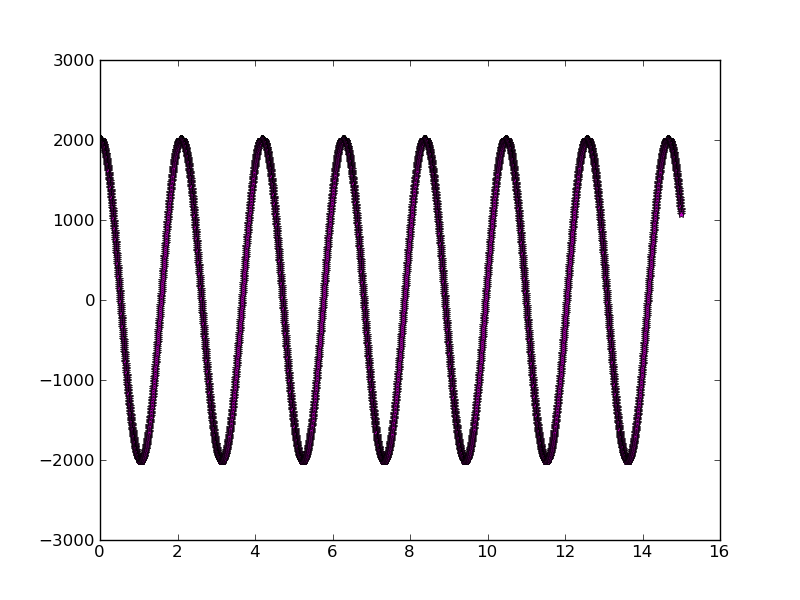
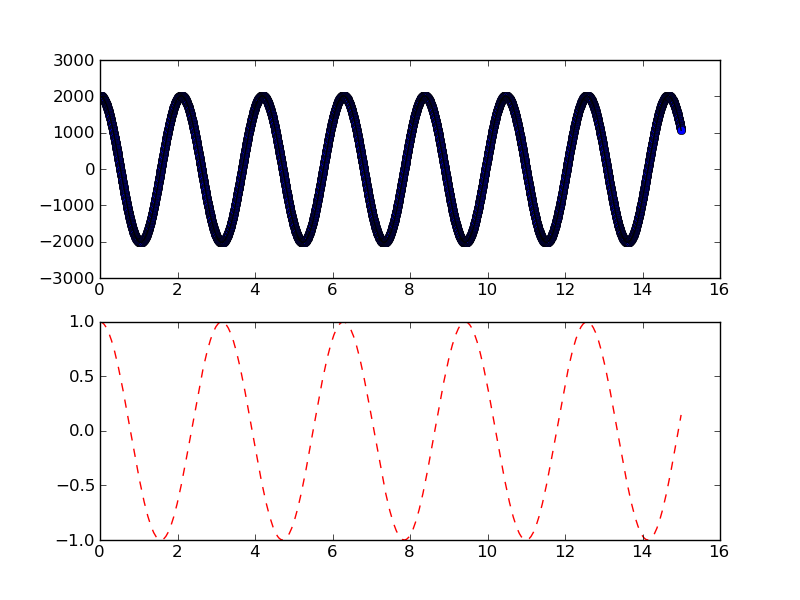
Add files via upload
Tercer ejecicio del examen

diff --git a/temp91.py b/temp91.py
@@ -1,0 +1,27 @@
+#Librerias
+import matplotlib.pyplot as plt 
+import numpy as np
+
+def f(t):
+    return  2015 * np.cos(3*t)
+#Definimos el rango de una variables y el intervalo en el que cambian
+t1 = np.arange(0.0,15.0,0.004)
+t2 = np.arange(0.0,15.0,0.002)
+
+#Crean el grupo de graficas
+plt.figure(1)
+#Crea el lienzo con dos renglones, una columna y entra a la primera seccion de esta division
+plt.subplot(211)
+#Grafica la variable t1 contra la funcion f(t1) con circulos azules y grafica la variable t2 contra la funcion f(t2) con una linea negra
+plt.plot(t1, f(t1), 'bo', t2, f(t2), 'k')
+
+#Entra a la segunda seccion del lienzo dividido
+plt.subplot(212)
+#grafica la variable t2 contra la funcion cos(2pi*x) con una linea punteada roja
+plt.plot(t2, np.cos(2*t2), 'r--')
+
+#guarda la grafica
+plt.savefig('examen.png')
+#muestra la grafica
+plt.show()
+
